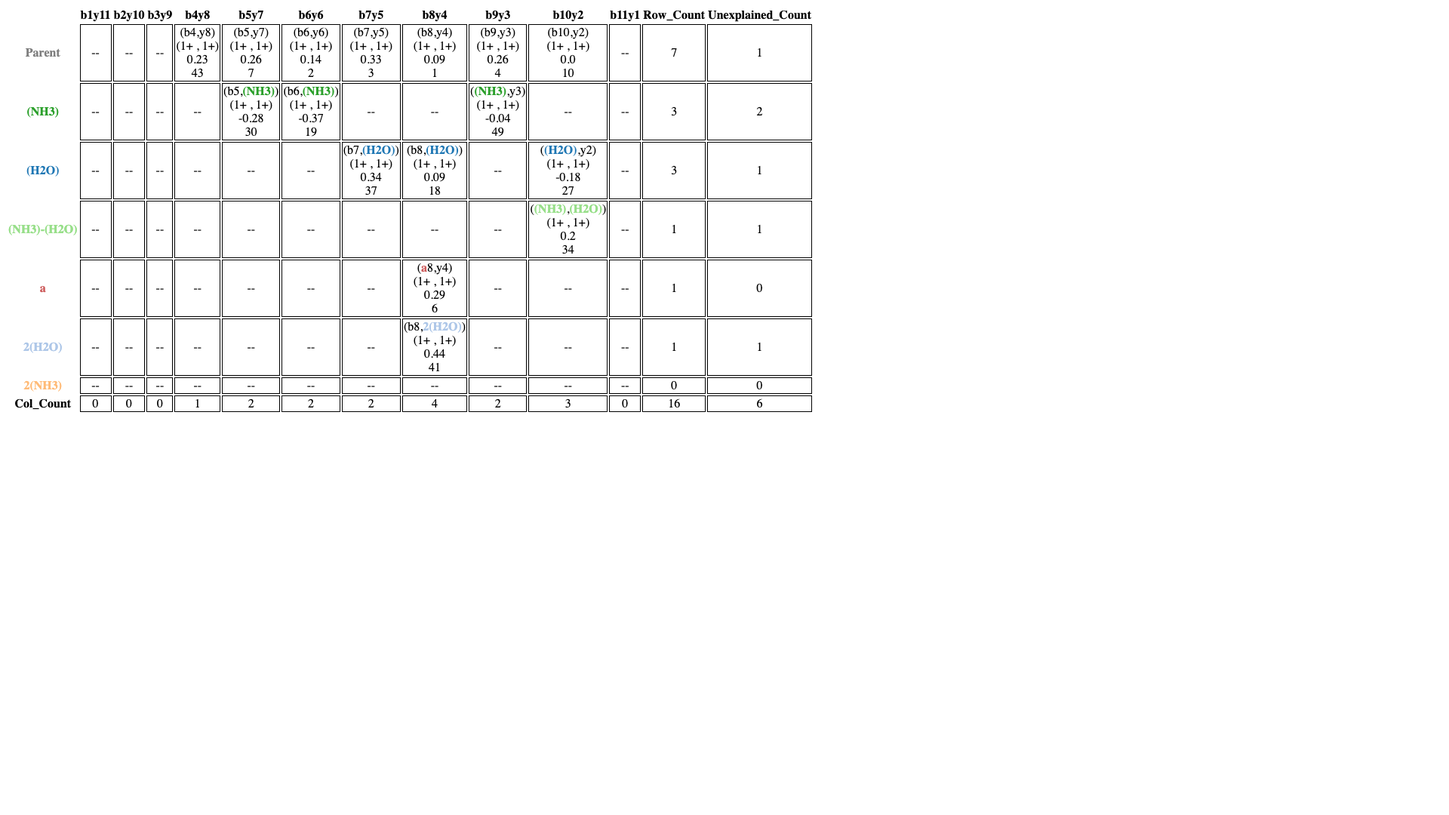
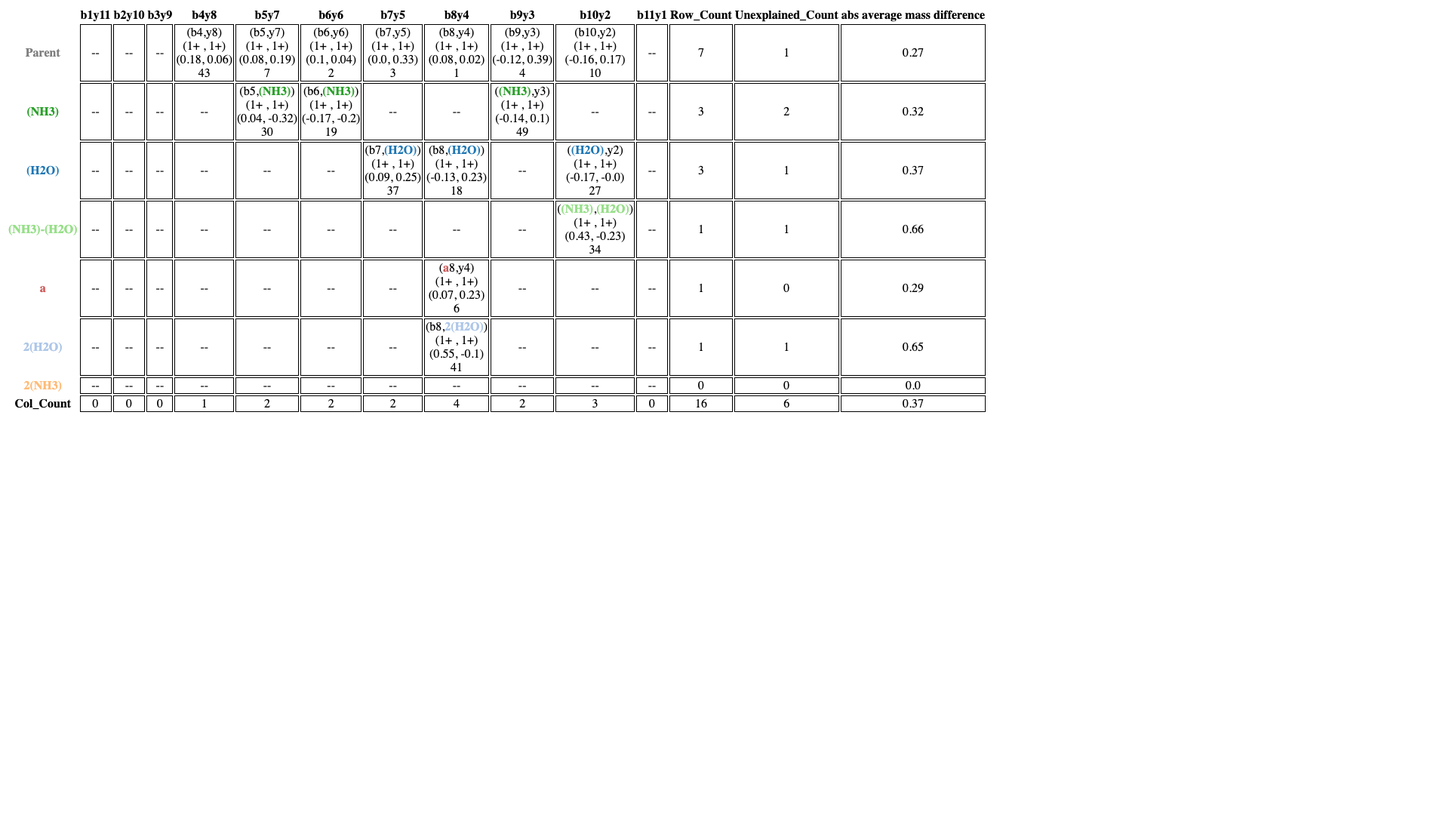
/

diff --git a/vis/temp/ME9_2+.html b/vis/temp/ME9_2+.html
@@ -1,188 +1,197 @@
 <style type="text/css">
-#T_dd740_row0_col0, #T_dd740_row0_col1, #T_dd740_row0_col2, #T_dd740_row0_col3, #T_dd740_row0_col4, #T_dd740_row0_col5, #T_dd740_row0_col6, #T_dd740_row0_col7, #T_dd740_row0_col8, #T_dd740_row0_col9, #T_dd740_row0_col10, #T_dd740_row0_col11, #T_dd740_row0_col12, #T_dd740_row1_col0, #T_dd740_row1_col1, #T_dd740_row1_col2, #T_dd740_row1_col3, #T_dd740_row1_col4, #T_dd740_row1_col5, #T_dd740_row1_col6, #T_dd740_row1_col7, #T_dd740_row1_col8, #T_dd740_row1_col9, #T_dd740_row1_col10, #T_dd740_row1_col11, #T_dd740_row1_col12, #T_dd740_row2_col0, #T_dd740_row2_col1, #T_dd740_row2_col2, #T_dd740_row2_col3, #T_dd740_row2_col4, #T_dd740_row2_col5, #T_dd740_row2_col6, #T_dd740_row2_col7, #T_dd740_row2_col8, #T_dd740_row2_col9, #T_dd740_row2_col10, #T_dd740_row2_col11, #T_dd740_row2_col12, #T_dd740_row3_col0, #T_dd740_row3_col1, #T_dd740_row3_col2, #T_dd740_row3_col3, #T_dd740_row3_col4, #T_dd740_row3_col5, #T_dd740_row3_col6, #T_dd740_row3_col7, #T_dd740_row3_col8, #T_dd740_row3_col9, #T_dd740_row3_col10, #T_dd740_row3_col11, #T_dd740_row3_col12, #T_dd740_row4_col0, #T_dd740_row4_col1, #T_dd740_row4_col2, #T_dd740_row4_col3, #T_dd740_row4_col4, #T_dd740_row4_col5, #T_dd740_row4_col6, #T_dd740_row4_col7, #T_dd740_row4_col8, #T_dd740_row4_col9, #T_dd740_row4_col10, #T_dd740_row4_col11, #T_dd740_row4_col12, #T_dd740_row5_col0, #T_dd740_row5_col1, #T_dd740_row5_col2, #T_dd740_row5_col3, #T_dd740_row5_col4, #T_dd740_row5_col5, #T_dd740_row5_col6, #T_dd740_row5_col7, #T_dd740_row5_col8, #T_dd740_row5_col9, #T_dd740_row5_col10, #T_dd740_row5_col11, #T_dd740_row5_col12, #T_dd740_row6_col0, #T_dd740_row6_col1, #T_dd740_row6_col2, #T_dd740_row6_col3, #T_dd740_row6_col4, #T_dd740_row6_col5, #T_dd740_row6_col6, #T_dd740_row6_col7, #T_dd740_row6_col8, #T_dd740_row6_col9, #T_dd740_row6_col10, #T_dd740_row6_col11, #T_dd740_row6_col12, #T_dd740_row7_col0, #T_dd740_row7_col1, #T_dd740_row7_col2, #T_dd740_row7_col3, #T_dd740_row7_col4, #T_dd740_row7_col5, #T_dd740_row7_col6, #T_dd740_row7_col7, #T_dd740_row7_col8, #T_dd740_row7_col9, #T_dd740_row7_col10, #T_dd740_row7_col11, #T_dd740_row7_col12 {
+#T_49c72_row0_col0, #T_49c72_row0_col1, #T_49c72_row0_col2, #T_49c72_row0_col3, #T_49c72_row0_col4, #T_49c72_row0_col5, #T_49c72_row0_col6, #T_49c72_row0_col7, #T_49c72_row0_col8, #T_49c72_row0_col9, #T_49c72_row0_col10, #T_49c72_row0_col11, #T_49c72_row0_col12, #T_49c72_row0_col13, #T_49c72_row1_col0, #T_49c72_row1_col1, #T_49c72_row1_col2, #T_49c72_row1_col3, #T_49c72_row1_col4, #T_49c72_row1_col5, #T_49c72_row1_col6, #T_49c72_row1_col7, #T_49c72_row1_col8, #T_49c72_row1_col9, #T_49c72_row1_col10, #T_49c72_row1_col11, #T_49c72_row1_col12, #T_49c72_row1_col13, #T_49c72_row2_col0, #T_49c72_row2_col1, #T_49c72_row2_col2, #T_49c72_row2_col3, #T_49c72_row2_col4, #T_49c72_row2_col5, #T_49c72_row2_col6, #T_49c72_row2_col7, #T_49c72_row2_col8, #T_49c72_row2_col9, #T_49c72_row2_col10, #T_49c72_row2_col11, #T_49c72_row2_col12, #T_49c72_row2_col13, #T_49c72_row3_col0, #T_49c72_row3_col1, #T_49c72_row3_col2, #T_49c72_row3_col3, #T_49c72_row3_col4, #T_49c72_row3_col5, #T_49c72_row3_col6, #T_49c72_row3_col7, #T_49c72_row3_col8, #T_49c72_row3_col9, #T_49c72_row3_col10, #T_49c72_row3_col11, #T_49c72_row3_col12, #T_49c72_row3_col13, #T_49c72_row4_col0, #T_49c72_row4_col1, #T_49c72_row4_col2, #T_49c72_row4_col3, #T_49c72_row4_col4, #T_49c72_row4_col5, #T_49c72_row4_col6, #T_49c72_row4_col7, #T_49c72_row4_col8, #T_49c72_row4_col9, #T_49c72_row4_col10, #T_49c72_row4_col11, #T_49c72_row4_col12, #T_49c72_row4_col13, #T_49c72_row5_col0, #T_49c72_row5_col1, #T_49c72_row5_col2, #T_49c72_row5_col3, #T_49c72_row5_col4, #T_49c72_row5_col5, #T_49c72_row5_col6, #T_49c72_row5_col7, #T_49c72_row5_col8, #T_49c72_row5_col9, #T_49c72_row5_col10, #T_49c72_row5_col11, #T_49c72_row5_col12, #T_49c72_row5_col13, #T_49c72_row6_col0, #T_49c72_row6_col1, #T_49c72_row6_col2, #T_49c72_row6_col3, #T_49c72_row6_col4, #T_49c72_row6_col5, #T_49c72_row6_col6, #T_49c72_row6_col7, #T_49c72_row6_col8, #T_49c72_row6_col9, #T_49c72_row6_col10, #T_49c72_row6_col11, #T_49c72_row6_col12, #T_49c72_row6_col13, #T_49c72_row7_col0, #T_49c72_row7_col1, #T_49c72_row7_col2, #T_49c72_row7_col3, #T_49c72_row7_col4, #T_49c72_row7_col5, #T_49c72_row7_col6, #T_49c72_row7_col7, #T_49c72_row7_col8, #T_49c72_row7_col9, #T_49c72_row7_col10, #T_49c72_row7_col11, #T_49c72_row7_col12, #T_49c72_row7_col13 {
   border: 1px solid black;
   text-align: center;
 }
-#T_dd740_level0_row0 {
+#T_49c72_level0_row0 {
   color: #7f7f7f;
   font-weight: bold;
 }
-#T_dd740_level0_row1 {
+#T_49c72_level0_row1 {
   color: #2ca02c;
   font-weight: bold;
 }
-#T_dd740_level0_row2 {
+#T_49c72_level0_row2 {
   color: #1f77b4;
   font-weight: bold;
 }
-#T_dd740_level0_row3 {
+#T_49c72_level0_row3 {
   color: #98df8a;
   font-weight: bold;
 }
-#T_dd740_level0_row4 {
+#T_49c72_level0_row4 {
   color: #CD5C5C;
   font-weight: bold;
 }
-#T_dd740_level0_row5 {
+#T_49c72_level0_row5 {
   color: #aec7e8;
   font-weight: bold;
 }
-#T_dd740_level0_row6 {
+#T_49c72_level0_row6 {
   color: #ffbb78;
   font-weight: bold;
 }
-#T_dd740_level0_row7 {
+#T_49c72_level0_row7 {
   color: black;
   font-weight: bold;
 }
 </style>
-<table id="T_dd740">
+<table id="T_49c72">
   <thead>
     <tr>
       <th class="blank level0" >&nbsp;</th>
-      <th id="T_dd740_level0_col0" class="col_heading level0 col0" >b1y11</th>
-      <th id="T_dd740_level0_col1" class="col_heading level0 col1" >b2y10</th>
-      <th id="T_dd740_level0_col2" class="col_heading level0 col2" >b3y9</th>
-      <th id="T_dd740_level0_col3" class="col_heading level0 col3" >b4y8</th>
-      <th id="T_dd740_level0_col4" class="col_heading level0 col4" >b5y7</th>
-      <th id="T_dd740_level0_col5" class="col_heading level0 col5" >b6y6</th>
-      <th id="T_dd740_level0_col6" class="col_heading level0 col6" >b7y5</th>
-      <th id="T_dd740_level0_col7" class="col_heading level0 col7" >b8y4</th>
-      <th id="T_dd740_level0_col8" class="col_heading level0 col8" >b9y3</th>
-      <th id="T_dd740_level0_col9" class="col_heading level0 col9" >b10y2</th>
-      <th id="T_dd740_level0_col10" class="col_heading level0 col10" >b11y1</th>
-      <th id="T_dd740_level0_col11" class="col_heading level0 col11" >Row_Count</th>
-      <th id="T_dd740_level0_col12" class="col_heading level0 col12" >Unexplained_Count</th>
+      <th id="T_49c72_level0_col0" class="col_heading level0 col0" >b1y11</th>
+      <th id="T_49c72_level0_col1" class="col_heading level0 col1" >b2y10</th>
+      <th id="T_49c72_level0_col2" class="col_heading level0 col2" >b3y9</th>
+      <th id="T_49c72_level0_col3" class="col_heading level0 col3" >b4y8</th>
+      <th id="T_49c72_level0_col4" class="col_heading level0 col4" >b5y7</th>
+      <th id="T_49c72_level0_col5" class="col_heading level0 col5" >b6y6</th>
+      <th id="T_49c72_level0_col6" class="col_heading level0 col6" >b7y5</th>
+      <th id="T_49c72_level0_col7" class="col_heading level0 col7" >b8y4</th>
+      <th id="T_49c72_level0_col8" class="col_heading level0 col8" >b9y3</th>
+      <th id="T_49c72_level0_col9" class="col_heading level0 col9" >b10y2</th>
+      <th id="T_49c72_level0_col10" class="col_heading level0 col10" >b11y1</th>
+      <th id="T_49c72_level0_col11" class="col_heading level0 col11" >Row_Count</th>
+      <th id="T_49c72_level0_col12" class="col_heading level0 col12" >Unexplained_Count</th>
+      <th id="T_49c72_level0_col13" class="col_heading level0 col13" >abs average mass difference</th>
     </tr>
   </thead>
   <tbody>
     <tr>
-      <th id="T_dd740_level0_row0" class="row_heading level0 row0" >Parent</th>
-      <td id="T_dd740_row0_col0" class="data row0 col0" >--</td>
-      <td id="T_dd740_row0_col1" class="data row0 col1" >--</td>
-      <td id="T_dd740_row0_col2" class="data row0 col2" >--</td>
-      <td id="T_dd740_row0_col3" class="data row0 col3" >(b4,y8) <br> (1+ , 1+) <br> 0.23<br>43</td>
-      <td id="T_dd740_row0_col4" class="data row0 col4" >(b5,y7) <br> (1+ , 1+) <br> 0.26<br>7</td>
-      <td id="T_dd740_row0_col5" class="data row0 col5" >(b6,y6) <br> (1+ , 1+) <br> 0.14<br>2</td>
-      <td id="T_dd740_row0_col6" class="data row0 col6" >(b7,y5) <br> (1+ , 1+) <br> 0.33<br>3</td>
-      <td id="T_dd740_row0_col7" class="data row0 col7" >(b8,y4) <br> (1+ , 1+) <br> 0.09<br>1</td>
-      <td id="T_dd740_row0_col8" class="data row0 col8" >(b9,y3) <br> (1+ , 1+) <br> 0.26<br>4</td>
-      <td id="T_dd740_row0_col9" class="data row0 col9" >(b10,y2) <br> (1+ , 1+) <br> 0.0<br>10</td>
-      <td id="T_dd740_row0_col10" class="data row0 col10" >--</td>
-      <td id="T_dd740_row0_col11" class="data row0 col11" >7</td>
-      <td id="T_dd740_row0_col12" class="data row0 col12" >1</td>
+      <th id="T_49c72_level0_row0" class="row_heading level0 row0" >Parent</th>
+      <td id="T_49c72_row0_col0" class="data row0 col0" >--</td>
+      <td id="T_49c72_row0_col1" class="data row0 col1" >--</td>
+      <td id="T_49c72_row0_col2" class="data row0 col2" >--</td>
+      <td id="T_49c72_row0_col3" class="data row0 col3" >(b4,y8) <br> (1+ , 1+) <br> (0.18, 0.06)<br>43</td>
+      <td id="T_49c72_row0_col4" class="data row0 col4" >(b5,y7) <br> (1+ , 1+) <br> (0.08, 0.19)<br>7</td>
+      <td id="T_49c72_row0_col5" class="data row0 col5" >(b6,y6) <br> (1+ , 1+) <br> (0.1, 0.04)<br>2</td>
+      <td id="T_49c72_row0_col6" class="data row0 col6" >(b7,y5) <br> (1+ , 1+) <br> (0.0, 0.33)<br>3</td>
+      <td id="T_49c72_row0_col7" class="data row0 col7" >(b8,y4) <br> (1+ , 1+) <br> (0.08, 0.02)<br>1</td>
+      <td id="T_49c72_row0_col8" class="data row0 col8" >(b9,y3) <br> (1+ , 1+) <br> (-0.12, 0.39)<br>4</td>
+      <td id="T_49c72_row0_col9" class="data row0 col9" >(b10,y2) <br> (1+ , 1+) <br> (-0.16, 0.17)<br>10</td>
+      <td id="T_49c72_row0_col10" class="data row0 col10" >--</td>
+      <td id="T_49c72_row0_col11" class="data row0 col11" >7</td>
+      <td id="T_49c72_row0_col12" class="data row0 col12" >1</td>
+      <td id="T_49c72_row0_col13" class="data row0 col13" >0.27</td>
     </tr>
     <tr>
-      <th id="T_dd740_level0_row1" class="row_heading level0 row1" >(NH3)</th>
-      <td id="T_dd740_row1_col0" class="data row1 col0" >--</td>
-      <td id="T_dd740_row1_col1" class="data row1 col1" >--</td>
-      <td id="T_dd740_row1_col2" class="data row1 col2" >--</td>
-      <td id="T_dd740_row1_col3" class="data row1 col3" >--</td>
-      <td id="T_dd740_row1_col4" class="data row1 col4" >(b5,<span style='color: #2ca02c; font-weight: bold;'>(NH3)</span>) <br> (1+ , 1+) <br> -0.28<br>30</td>
-      <td id="T_dd740_row1_col5" class="data row1 col5" >(b6,<span style='color: #2ca02c; font-weight: bold;'>(NH3)</span>) <br> (1+ , 1+) <br> -0.37<br>19</td>
-      <td id="T_dd740_row1_col6" class="data row1 col6" >--</td>
-      <td id="T_dd740_row1_col7" class="data row1 col7" >--</td>
-      <td id="T_dd740_row1_col8" class="data row1 col8" >(<span style='color: #2ca02c; font-weight: bold;'>(NH3)</span>,y3) <br> (1+ , 1+) <br> -0.04<br>49</td>
-      <td id="T_dd740_row1_col9" class="data row1 col9" >--</td>
-      <td id="T_dd740_row1_col10" class="data row1 col10" >--</td>
-      <td id="T_dd740_row1_col11" class="data row1 col11" >3</td>
-      <td id="T_dd740_row1_col12" class="data row1 col12" >2</td>
+      <th id="T_49c72_level0_row1" class="row_heading level0 row1" >(NH3)</th>
+      <td id="T_49c72_row1_col0" class="data row1 col0" >--</td>
+      <td id="T_49c72_row1_col1" class="data row1 col1" >--</td>
+      <td id="T_49c72_row1_col2" class="data row1 col2" >--</td>
+      <td id="T_49c72_row1_col3" class="data row1 col3" >--</td>
+      <td id="T_49c72_row1_col4" class="data row1 col4" >(b5,<span style='color: #2ca02c; font-weight: bold;'>(NH3)</span>) <br> (1+ , 1+) <br> (0.04, -0.32)<br>30</td>
+      <td id="T_49c72_row1_col5" class="data row1 col5" >(b6,<span style='color: #2ca02c; font-weight: bold;'>(NH3)</span>) <br> (1+ , 1+) <br> (-0.17, -0.2)<br>19</td>
+      <td id="T_49c72_row1_col6" class="data row1 col6" >--</td>
+      <td id="T_49c72_row1_col7" class="data row1 col7" >--</td>
+      <td id="T_49c72_row1_col8" class="data row1 col8" >(<span style='color: #2ca02c; font-weight: bold;'>(NH3)</span>,y3) <br> (1+ , 1+) <br> (-0.14, 0.1)<br>49</td>
+      <td id="T_49c72_row1_col9" class="data row1 col9" >--</td>
+      <td id="T_49c72_row1_col10" class="data row1 col10" >--</td>
+      <td id="T_49c72_row1_col11" class="data row1 col11" >3</td>
+      <td id="T_49c72_row1_col12" class="data row1 col12" >2</td>
+      <td id="T_49c72_row1_col13" class="data row1 col13" >0.32</td>
     </tr>
     <tr>
-      <th id="T_dd740_level0_row2" class="row_heading level0 row2" >(H2O)</th>
-      <td id="T_dd740_row2_col0" class="data row2 col0" >--</td>
-      <td id="T_dd740_row2_col1" class="data row2 col1" >--</td>
-      <td id="T_dd740_row2_col2" class="data row2 col2" >--</td>
-      <td id="T_dd740_row2_col3" class="data row2 col3" >--</td>
-      <td id="T_dd740_row2_col4" class="data row2 col4" >--</td>
-      <td id="T_dd740_row2_col5" class="data row2 col5" >--</td>
-      <td id="T_dd740_row2_col6" class="data row2 col6" >(b7,<span style='color: #1f77b4; font-weight: bold;'>(H2O)</span>) <br> (1+ , 1+) <br> 0.34<br>37</td>
-      <td id="T_dd740_row2_col7" class="data row2 col7" >(b8,<span style='color: #1f77b4; font-weight: bold;'>(H2O)</span>) <br> (1+ , 1+) <br> 0.09<br>18</td>
-      <td id="T_dd740_row2_col8" class="data row2 col8" >--</td>
-      <td id="T_dd740_row2_col9" class="data row2 col9" >(<span style='color: #1f77b4; font-weight: bold;'>(H2O)</span>,y2) <br> (1+ , 1+) <br> -0.18<br>27</td>
-      <td id="T_dd740_row2_col10" class="data row2 col10" >--</td>
-      <td id="T_dd740_row2_col11" class="data row2 col11" >3</td>
-      <td id="T_dd740_row2_col12" class="data row2 col12" >1</td>
+      <th id="T_49c72_level0_row2" class="row_heading level0 row2" >(H2O)</th>
+      <td id="T_49c72_row2_col0" class="data row2 col0" >--</td>
+      <td id="T_49c72_row2_col1" class="data row2 col1" >--</td>
+      <td id="T_49c72_row2_col2" class="data row2 col2" >--</td>
+      <td id="T_49c72_row2_col3" class="data row2 col3" >--</td>
+      <td id="T_49c72_row2_col4" class="data row2 col4" >--</td>
+      <td id="T_49c72_row2_col5" class="data row2 col5" >--</td>
+      <td id="T_49c72_row2_col6" class="data row2 col6" >(b7,<span style='color: #1f77b4; font-weight: bold;'>(H2O)</span>) <br> (1+ , 1+) <br> (0.09, 0.25)<br>37</td>
+      <td id="T_49c72_row2_col7" class="data row2 col7" >(b8,<span style='color: #1f77b4; font-weight: bold;'>(H2O)</span>) <br> (1+ , 1+) <br> (-0.13, 0.23)<br>18</td>
+      <td id="T_49c72_row2_col8" class="data row2 col8" >--</td>
+      <td id="T_49c72_row2_col9" class="data row2 col9" >(<span style='color: #1f77b4; font-weight: bold;'>(H2O)</span>,y2) <br> (1+ , 1+) <br> (-0.17, -0.0)<br>27</td>
+      <td id="T_49c72_row2_col10" class="data row2 col10" >--</td>
+      <td id="T_49c72_row2_col11" class="data row2 col11" >3</td>
+      <td id="T_49c72_row2_col12" class="data row2 col12" >1</td>
+      <td id="T_49c72_row2_col13" class="data row2 col13" >0.37</td>
     </tr>
     <tr>
-      <th id="T_dd740_level0_row3" class="row_heading level0 row3" >(NH3)-(H2O)</th>
-      <td id="T_dd740_row3_col0" class="data row3 col0" >--</td>
-      <td id="T_dd740_row3_col1" class="data row3 col1" >--</td>
-      <td id="T_dd740_row3_col2" class="data row3 col2" >--</td>
-      <td id="T_dd740_row3_col3" class="data row3 col3" >--</td>
-      <td id="T_dd740_row3_col4" class="data row3 col4" >--</td>
-      <td id="T_dd740_row3_col5" class="data row3 col5" >--</td>
-      <td id="T_dd740_row3_col6" class="data row3 col6" >--</td>
-      <td id="T_dd740_row3_col7" class="data row3 col7" >--</td>
-      <td id="T_dd740_row3_col8" class="data row3 col8" >--</td>
-      <td id="T_dd740_row3_col9" class="data row3 col9" >(<span style='color: #98df8a; font-weight: bold;'>(NH3)</span>,<span style='color: #98df8a; font-weight: bold;'>(H2O)</span>) <br> (1+ , 1+) <br> 0.2<br>34</td>
-      <td id="T_dd740_row3_col10" class="data row3 col10" >--</td>
-      <td id="T_dd740_row3_col11" class="data row3 col11" >1</td>
-      <td id="T_dd740_row3_col12" class="data row3 col12" >1</td>
+      <th id="T_49c72_level0_row3" class="row_heading level0 row3" >(NH3)-(H2O)</th>
+      <td id="T_49c72_row3_col0" class="data row3 col0" >--</td>
+      <td id="T_49c72_row3_col1" class="data row3 col1" >--</td>
+      <td id="T_49c72_row3_col2" class="data row3 col2" >--</td>
+      <td id="T_49c72_row3_col3" class="data row3 col3" >--</td>
+      <td id="T_49c72_row3_col4" class="data row3 col4" >--</td>
+      <td id="T_49c72_row3_col5" class="data row3 col5" >--</td>
+      <td id="T_49c72_row3_col6" class="data row3 col6" >--</td>
+      <td id="T_49c72_row3_col7" class="data row3 col7" >--</td>
+      <td id="T_49c72_row3_col8" class="data row3 col8" >--</td>
+      <td id="T_49c72_row3_col9" class="data row3 col9" >(<span style='color: #98df8a; font-weight: bold;'>(NH3)</span>,<span style='color: #98df8a; font-weight: bold;'>(H2O)</span>) <br> (1+ , 1+) <br> (0.43, -0.23)<br>34</td>
+      <td id="T_49c72_row3_col10" class="data row3 col10" >--</td>
+      <td id="T_49c72_row3_col11" class="data row3 col11" >1</td>
+      <td id="T_49c72_row3_col12" class="data row3 col12" >1</td>
+      <td id="T_49c72_row3_col13" class="data row3 col13" >0.66</td>
     </tr>
     <tr>
-      <th id="T_dd740_level0_row4" class="row_heading level0 row4" >a</th>
-      <td id="T_dd740_row4_col0" class="data row4 col0" >--</td>
-      <td id="T_dd740_row4_col1" class="data row4 col1" >--</td>
-      <td id="T_dd740_row4_col2" class="data row4 col2" >--</td>
-      <td id="T_dd740_row4_col3" class="data row4 col3" >--</td>
-      <td id="T_dd740_row4_col4" class="data row4 col4" >--</td>
-      <td id="T_dd740_row4_col5" class="data row4 col5" >--</td>
-      <td id="T_dd740_row4_col6" class="data row4 col6" >--</td>
-      <td id="T_dd740_row4_col7" class="data row4 col7" >(<span style='color: #CD5C5C; font-weight: bold;'>a</span>8,y4) <br> (1+ , 1+) <br> 0.29<br>6</td>
-      <td id="T_dd740_row4_col8" class="data row4 col8" >--</td>
-      <td id="T_dd740_row4_col9" class="data row4 col9" >--</td>
-      <td id="T_dd740_row4_col10" class="data row4 col10" >--</td>
-      <td id="T_dd740_row4_col11" class="data row4 col11" >1</td>
-      <td id="T_dd740_row4_col12" class="data row4 col12" >0</td>
+      <th id="T_49c72_level0_row4" class="row_heading level0 row4" >a</th>
+      <td id="T_49c72_row4_col0" class="data row4 col0" >--</td>
+      <td id="T_49c72_row4_col1" class="data row4 col1" >--</td>
+      <td id="T_49c72_row4_col2" class="data row4 col2" >--</td>
+      <td id="T_49c72_row4_col3" class="data row4 col3" >--</td>
+      <td id="T_49c72_row4_col4" class="data row4 col4" >--</td>
+      <td id="T_49c72_row4_col5" class="data row4 col5" >--</td>
+      <td id="T_49c72_row4_col6" class="data row4 col6" >--</td>
+      <td id="T_49c72_row4_col7" class="data row4 col7" >(<span style='color: #CD5C5C; font-weight: bold;'>a</span>8,y4) <br> (1+ , 1+) <br> (0.07, 0.23)<br>6</td>
+      <td id="T_49c72_row4_col8" class="data row4 col8" >--</td>
+      <td id="T_49c72_row4_col9" class="data row4 col9" >--</td>
+      <td id="T_49c72_row4_col10" class="data row4 col10" >--</td>
+      <td id="T_49c72_row4_col11" class="data row4 col11" >1</td>
+      <td id="T_49c72_row4_col12" class="data row4 col12" >0</td>
+      <td id="T_49c72_row4_col13" class="data row4 col13" >0.29</td>
     </tr>
     <tr>
-      <th id="T_dd740_level0_row5" class="row_heading level0 row5" >2(H2O)</th>
-      <td id="T_dd740_row5_col0" class="data row5 col0" >--</td>
-      <td id="T_dd740_row5_col1" class="data row5 col1" >--</td>
-      <td id="T_dd740_row5_col2" class="data row5 col2" >--</td>
-      <td id="T_dd740_row5_col3" class="data row5 col3" >--</td>
-      <td id="T_dd740_row5_col4" class="data row5 col4" >--</td>
-      <td id="T_dd740_row5_col5" class="data row5 col5" >--</td>
-      <td id="T_dd740_row5_col6" class="data row5 col6" >--</td>
-      <td id="T_dd740_row5_col7" class="data row5 col7" >(b8,<span style='color: #aec7e8; font-weight: bold;'>2(H2O)</span>) <br> (1+ , 1+) <br> 0.44<br>41</td>
-      <td id="T_dd740_row5_col8" class="data row5 col8" >--</td>
-      <td id="T_dd740_row5_col9" class="data row5 col9" >--</td>
-      <td id="T_dd740_row5_col10" class="data row5 col10" >--</td>
-      <td id="T_dd740_row5_col11" class="data row5 col11" >1</td>
-      <td id="T_dd740_row5_col12" class="data row5 col12" >1</td>
+      <th id="T_49c72_level0_row5" class="row_heading level0 row5" >2(H2O)</th>
+      <td id="T_49c72_row5_col0" class="data row5 col0" >--</td>
+      <td id="T_49c72_row5_col1" class="data row5 col1" >--</td>
+      <td id="T_49c72_row5_col2" class="data row5 col2" >--</td>
+      <td id="T_49c72_row5_col3" class="data row5 col3" >--</td>
+      <td id="T_49c72_row5_col4" class="data row5 col4" >--</td>
+      <td id="T_49c72_row5_col5" class="data row5 col5" >--</td>
+      <td id="T_49c72_row5_col6" class="data row5 col6" >--</td>
+      <td id="T_49c72_row5_col7" class="data row5 col7" >(b8,<span style='color: #aec7e8; font-weight: bold;'>2(H2O)</span>) <br> (1+ , 1+) <br> (0.55, -0.1)<br>41</td>
+      <td id="T_49c72_row5_col8" class="data row5 col8" >--</td>
+      <td id="T_49c72_row5_col9" class="data row5 col9" >--</td>
+      <td id="T_49c72_row5_col10" class="data row5 col10" >--</td>
+      <td id="T_49c72_row5_col11" class="data row5 col11" >1</td>
+      <td id="T_49c72_row5_col12" class="data row5 col12" >1</td>
+      <td id="T_49c72_row5_col13" class="data row5 col13" >0.65</td>
     </tr>
     <tr>
-      <th id="T_dd740_level0_row6" class="row_heading level0 row6" >2(NH3)</th>
-      <td id="T_dd740_row6_col0" class="data row6 col0" >--</td>
-      <td id="T_dd740_row6_col1" class="data row6 col1" >--</td>
-      <td id="T_dd740_row6_col2" class="data row6 col2" >--</td>
-      <td id="T_dd740_row6_col3" class="data row6 col3" >--</td>
-      <td id="T_dd740_row6_col4" class="data row6 col4" >--</td>
-      <td id="T_dd740_row6_col5" class="data row6 col5" >--</td>
-      <td id="T_dd740_row6_col6" class="data row6 col6" >--</td>
-      <td id="T_dd740_row6_col7" class="data row6 col7" >--</td>
-      <td id="T_dd740_row6_col8" class="data row6 col8" >--</td>
-      <td id="T_dd740_row6_col9" class="data row6 col9" >--</td>
-      <td id="T_dd740_row6_col10" class="data row6 col10" >--</td>
-      <td id="T_dd740_row6_col11" class="data row6 col11" >0</td>
-      <td id="T_dd740_row6_col12" class="data row6 col12" >0</td>
+      <th id="T_49c72_level0_row6" class="row_heading level0 row6" >2(NH3)</th>
+      <td id="T_49c72_row6_col0" class="data row6 col0" >--</td>
+      <td id="T_49c72_row6_col1" class="data row6 col1" >--</td>
+      <td id="T_49c72_row6_col2" class="data row6 col2" >--</td>
+      <td id="T_49c72_row6_col3" class="data row6 col3" >--</td>
+      <td id="T_49c72_row6_col4" class="data row6 col4" >--</td>
+      <td id="T_49c72_row6_col5" class="data row6 col5" >--</td>
+      <td id="T_49c72_row6_col6" class="data row6 col6" >--</td>
+      <td id="T_49c72_row6_col7" class="data row6 col7" >--</td>
+      <td id="T_49c72_row6_col8" class="data row6 col8" >--</td>
+      <td id="T_49c72_row6_col9" class="data row6 col9" >--</td>
+      <td id="T_49c72_row6_col10" class="data row6 col10" >--</td>
+      <td id="T_49c72_row6_col11" class="data row6 col11" >0</td>
+      <td id="T_49c72_row6_col12" class="data row6 col12" >0</td>
+      <td id="T_49c72_row6_col13" class="data row6 col13" >0.0</td>
     </tr>
     <tr>
-      <th id="T_dd740_level0_row7" class="row_heading level0 row7" >Col_Count</th>
-      <td id="T_dd740_row7_col0" class="data row7 col0" >0</td>
-      <td id="T_dd740_row7_col1" class="data row7 col1" >0</td>
-      <td id="T_dd740_row7_col2" class="data row7 col2" >0</td>
-      <td id="T_dd740_row7_col3" class="data row7 col3" >1</td>
-      <td id="T_dd740_row7_col4" class="data row7 col4" >2</td>
-      <td id="T_dd740_row7_col5" class="data row7 col5" >2</td>
-      <td id="T_dd740_row7_col6" class="data row7 col6" >2</td>
-      <td id="T_dd740_row7_col7" class="data row7 col7" >4</td>
-      <td id="T_dd740_row7_col8" class="data row7 col8" >2</td>
-      <td id="T_dd740_row7_col9" class="data row7 col9" >3</td>
-      <td id="T_dd740_row7_col10" class="data row7 col10" >0</td>
-      <td id="T_dd740_row7_col11" class="data row7 col11" >16</td>
-      <td id="T_dd740_row7_col12" class="data row7 col12" >6</td>
+      <th id="T_49c72_level0_row7" class="row_heading level0 row7" >Col_Count</th>
+      <td id="T_49c72_row7_col0" class="data row7 col0" >0</td>
+      <td id="T_49c72_row7_col1" class="data row7 col1" >0</td>
+      <td id="T_49c72_row7_col2" class="data row7 col2" >0</td>
+      <td id="T_49c72_row7_col3" class="data row7 col3" >1</td>
+      <td id="T_49c72_row7_col4" class="data row7 col4" >2</td>
+      <td id="T_49c72_row7_col5" class="data row7 col5" >2</td>
+      <td id="T_49c72_row7_col6" class="data row7 col6" >2</td>
+      <td id="T_49c72_row7_col7" class="data row7 col7" >4</td>
+      <td id="T_49c72_row7_col8" class="data row7 col8" >2</td>
+      <td id="T_49c72_row7_col9" class="data row7 col9" >3</td>
+      <td id="T_49c72_row7_col10" class="data row7 col10" >0</td>
+      <td id="T_49c72_row7_col11" class="data row7 col11" >16</td>
+      <td id="T_49c72_row7_col12" class="data row7 col12" >6</td>
+      <td id="T_49c72_row7_col13" class="data row7 col13" >0.37</td>
     </tr>
   </tbody>
 </table>

diff --git a/vis/conserve_line.py b/vis/conserve_line.py
@@ -14,7 +14,7 @@ import matplotlib.patches as mpatches
 import neutral_loss_mass
 
 
-data = 'ME8_3+'
+data = 'ME9_2+'
 csv_data = f"{data}.csv"
 file_path = os.path.join(
     os.path.dirname(__file__),
@@ -177,6 +177,8 @@ highlight_data = {}
 
 total_count = {i:0 for i in rows}
 unexplained_count = {i:0 for i in rows}
+abs_mass_difference = {i:[0,0] for i in rows}
+
 
 for index, each_row in df.iterrows():
     
@@ -204,15 +206,24 @@ for index, each_row in df.iterrows():
     if (each_row['conserve_line'] in reuslt_df.index) and (the_column in reuslt_df.columns) and rounded_sum < 1:
         #print(each_row['conserve_line'])
         reuslt_df.at[each_row['conserve_line'], the_column] = f"({each_row['loss_first_m']},{each_row['loss_second_m']})" + ' \n ' +\
-        f"({each_row['charge_first']} , {each_row['charge_second']})" +' \n ' + str(round(each_row['mass_difference1'] + each_row['mass_difference2'], 2)) + '\n' + f"{str(int(each_row['ranking']))}"
+        f"({each_row['charge_first']} , {each_row['charge_second']})" +' \n ' + f"({str(round(each_row['mass_difference1'], 2))}, {round(each_row['mass_difference2'], 2)})" + '\n' + f"{str(int(each_row['ranking']))}"
         
         #high_light.append(int(each_row['ranking']))
         highlight_data[int(each_row['ranking'])] = each_row['conserve_line']
+        abs_mass_difference[each_row['conserve_line']][0] += 1
+        abs_mass_difference[each_row['conserve_line']][1] += abs(each_row['mass_difference1'])
+        abs_mass_difference[each_row['conserve_line']][1] += abs(each_row['mass_difference2'])
         
 reuslt_df = reuslt_df.fillna('--')
 
 reuslt_df['Row_Count'] = (reuslt_df != '--').sum(axis=1)
 
+##calculate the mean of abs value of each mass deviatoin:
+for i in abs_mass_difference:
+    if abs_mass_difference[i][0] > 0:
+        abs_mass_difference[i] = round(abs_mass_difference[i][1] / abs_mass_difference[i][0], 2)
+    else:
+        abs_mass_difference[i] = 0
 
 # Count valid entries in each column
 reuslt_df.loc['Col_Count'] = (reuslt_df != '--').sum(axis=0)
@@ -280,7 +291,10 @@ def combine_rows_inplace(df, idx1, idx2, keep='first'):
 
 reuslt_df = combine_rows_inplace(reuslt_df, '(NH3)-(H2O)', '(H2O)-(NH3)')
 unexplained_count['Col_Count'] = sum(unexplained_count[v] for v in reuslt_df.index[:-1])
+abs_mass_difference['Col_Count'] = round(np.mean([abs_mass_difference[i] for i in reuslt_df.index[:-1]]), 2)
+
 reuslt_df['Unexplained_Count'] = pd.Series(unexplained_count)
+reuslt_df['abs average mass difference'] = pd.Series(abs_mass_difference)
 print(reuslt_df)
 reuslt_df = reuslt_df.map(lambda x: x.replace('\n', '<br>') if isinstance(x, str) else x)
 
